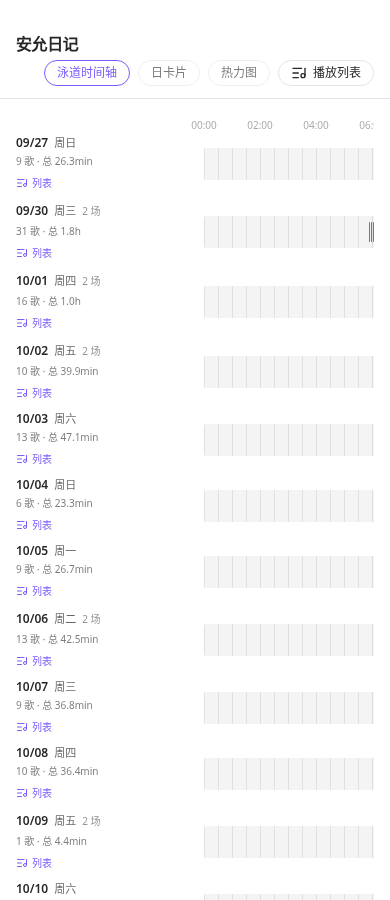
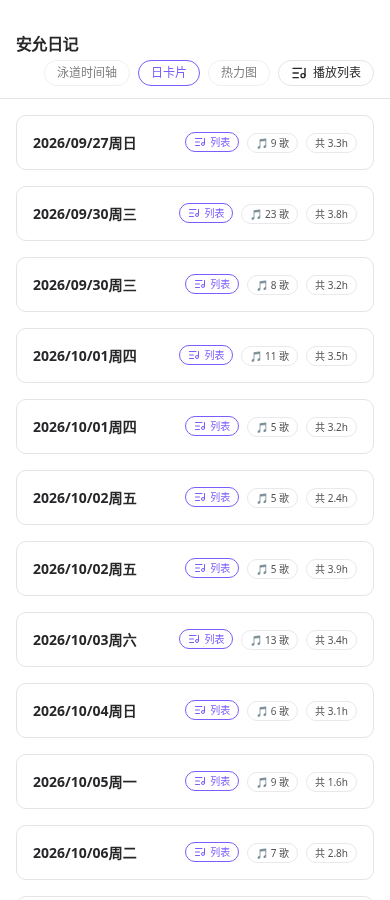
P3b: Chip component, heatmap/daystrip restyled on tokens; shot script tablist selector fix + retaken view1/2 baselines

diff --git a/src/lib/Heatmap.svelte b/src/lib/Heatmap.svelte
@@ -1,7 +1,7 @@
 <script lang="ts">
   import type { Recording } from './types';
   import { shDayStart } from './playlist-core';
-  import { fmtDur } from './types';
+  import { fmtDur, dateCard } from './types';
   import { adopt, buildRecTracks } from './player.svelte';
 
   let { recordings }: { recordings: Recording[] } = $props();
@@ -77,54 +77,71 @@
 </script>
 
 <div class="overflow-x-auto">
-  <div class="min-w-[860px]">
-    <div class="flex">
-      <!-- 纵轴：0-23 时 -->
-      <div class="w-10 shrink-0 pt-6">
-        {#each Array(24) as _, h}
-          {#if h % 3 === 0}
-            <div class="text-right text-[9px] leading-[14px] opacity-40">{String(h).padStart(2, '0')}</div>
-          {:else}
-            <div class="leading-[14px]"></div>
-          {/if}
-        {/each}
+  {#if days.length === 0}
+    <div class="py-6 text-center text-sm opacity-55">无数据</div>
+  {:else}
+    <div class="min-w-[640px]">
+      <!-- 列头：MM/DD + 周几 -->
+      <div class="flex">
+        <div class="w-10 shrink-0"></div>
+        <div class="flex flex-1 gap-1">
+          {#each days as day (day)}
+            {@const dc = dateCard(day)}
+            <div class="flex min-w-0 flex-1 flex-col items-center">
+              <span class="text-2xs font-semibold tabular-nums">{dc.md}</span>
+              <span class="text-2xs opacity-55">{dc.wd}</span>
+            </div>
+          {/each}
+        </div>
       </div>
 
-      <!-- 主体：每天一列 -->
-      <div class="flex flex-1 gap-[3px]">
-        {#each days as day (day)}
-          <div class="flex flex-1 flex-col gap-[2px]">
-            {#each Array(24) as _, h}
-              {@const c = cellAt(day, h)}
-              <div
-                class="h-[12px] rounded-[3px] transition-transform hover:scale-110"
-                style:background={bg(c)}
-                role={c ? 'button' : undefined}
-                tabindex={c ? 0 : undefined}
-                onclick={c ? () => playDay(c) : undefined}
-                onkeydown={(e) => { if (c && (e.key === 'Enter' || e.key === ' ')) { e.preventDefault(); playDay(c); } }}
-                onmousemove={(e) => c && show(e, c)}
-                onmouseleave={() => (tip = null)}
-              ></div>
-            {/each}
-            <div class="mt-1 text-center text-[9px] tabular-nums opacity-50">{md(day).slice(3)}</div>
-          </div>
-        {/each}
+      <!-- 主体：每列一天，每行一小时 -->
+      <div class="mt-1 flex">
+        <div class="flex w-10 shrink-0 flex-col gap-1">
+          {#each Array(24) as _, h}
+            <div class="flex h-3.5 items-center justify-end pr-1 text-2xs tabular-nums opacity-55">
+              {String(h).padStart(2, '0')}
+            </div>
+          {/each}
+        </div>
+
+        <div class="flex flex-1 gap-1">
+          {#each days as day (day)}
+            <div class="flex flex-1 flex-col gap-1">
+              {#each Array(24) as _, h}
+                {@const c = cellAt(day, h)}
+                <div
+                  class="h-3.5 w-full rounded-sm transition hover:ring-1 ring-accent"
+                  style:background={bg(c)}
+                  role={c ? 'button' : undefined}
+                  tabindex={c ? 0 : undefined}
+                  onclick={c ? () => playDay(c) : undefined}
+                  onkeydown={(e) => { if (c && (e.key === 'Enter' || e.key === ' ')) { e.preventDefault(); playDay(c); } }}
+                  onmousemove={(e) => c && show(e, c)}
+                  onmouseleave={() => (tip = null)}
+                ></div>
+              {/each}
+            </div>
+          {/each}
+        </div>
+      </div>
+
+      <!-- 图例 -->
+      <div class="mt-4 flex items-center gap-2 pl-10">
+        <span class="text-2xs opacity-55">少</span>
+        <div
+          class="h-2 w-24 rounded-full"
+          style:background="linear-gradient(90deg, hsl(258 80% 60% / 0.15), hsl(258 80% 60% / 0.95))"
+        ></div>
+        <span class="text-2xs opacity-55">多</span>
+        <span class="ml-2 text-2xs opacity-55">点击格子装载当天播放列表</span>
       </div>
     </div>
-
-    <div class="mt-4 flex items-center gap-2 pl-10 text-xs">
-      <span class="opacity-60">少</span>
-      {#each [0.12, 0.3, 0.5, 0.7, 0.95] as o}
-        <span class="h-3 w-3 rounded-[3px]" style:background={`hsl(258 80% 60% / ${o})`}></span>
-      {/each}
-      <span class="opacity-60">多（颜色 = 该小时唱歌时长；点击格子装载当天播放列表）</span>
-    </div>
-  </div>
+  {/if}
 </div>
 
 {#if tip}
-  <div class="pointer-events-none fixed z-50 max-w-xs rounded-lg border bg-base-100 p-2 text-xs shadow-lg"
+  <div class="pointer-events-none fixed z-50 max-w-xs rounded-lg border border-base-300 bg-base-100 p-2 text-xs shadow-lg"
     style:left={tip.x + 12 + 'px'} style:top={tip.y + 12 + 'px'}>
     {@html tip.html}
   </div>

diff --git a/src/lib/DayStrip.svelte b/src/lib/DayStrip.svelte
@@ -3,6 +3,7 @@
   import { fmtDay, fmtDur, fmtOffset, hueOf } from './types';
   import { player, playClip, adopt, buildRecTracks } from './player.svelte';
   import { ListMusic } from 'lucide-svelte';
+  import Chip from './components/Chip.svelte';
 
   let { recordings }: { recordings: Recording[] } = $props();
 
@@ -24,48 +25,45 @@
     {@const dur = recDur(rec)}
     {@const songs = rec.clips ?? []}
     <button
-      class="card rounded-xl border bg-base-100 p-4 text-left transition hover:border-accent"
+      class="block w-full rounded-lg border border-base-300 bg-base-100 p-4 text-left transition hover:border-accent"
       class:border-accent={open === rec.file}
       onclick={() => (open = open === rec.file ? null : rec.file)}
     >
-      <div class="flex items-baseline justify-between">
-        <div class="font-semibold">{fmtDay(rec.start)}</div>
-        <div class="flex items-center gap-2">
+      <div class="flex items-baseline justify-between gap-2">
+        <div class="text-base font-bold">{fmtDay(rec.start)}</div>
+        <div class="flex flex-wrap items-center justify-end gap-2">
           <span
-            class="flex items-center gap-1 rounded-full bg-accent/10 px-2 py-0.5 text-accent transition hover:bg-accent/20"
-            title="把这天的歌加入播放列表" onclick={(e) => { e.stopPropagation(); adopt(buildRecTracks(rec), 0); }}
+            title="把这天的歌加入播放列表"
+            onclick={(e) => { e.stopPropagation(); adopt(buildRecTracks(rec), 0); }}
           >
-            <ListMusic class="h-3 w-3" /> 列表 </span
-          >
-          <div class="text-[10px] opacity-60">{dur ? fmtDur(dur) : '无数据'}{rec.duration ? '' : '（估算）'}</div>
+            <Chip variant="accent"><ListMusic class="h-3 w-3" /> 列表</Chip>
+          </span>
+          <Chip>🎵 {songs.length} 歌</Chip>
+          <Chip>共 {dur ? fmtDur(dur) : '无数据'}{rec.duration ? '' : '（估算）'}</Chip>
         </div>
-      </div>
-      <div class="mt-2 flex flex-wrap gap-2 text-[11px]">
-        <span class="rounded-full bg-accent/15 px-2 py-0.5">🎵 {songs.length} 歌</span>
-        <span class="rounded-full bg-base-300/50 px-2 py-0.5">共 {dur ? fmtDur(dur) : '无数据'}{rec.duration ? '' : '（估算）'}</span>
       </div>
 
       {#if open === rec.file}
-        <ol class="mt-3 space-y-1.5 border-t pt-3">
+        <ol class="mt-3 space-y-1 border-t border-base-300 pt-3">
           {#each songs as c, i (c.file)}
             {@const hue = hueOf(c.title)}
             {@const active = player.track?.clip.file === c.file}
             <li>
               <button
-                class="flex w-full items-center gap-2 rounded px-1 py-0.5 text-left text-xs transition hover:bg-base-200"
+                class="flex h-9 w-full items-center gap-2 rounded-md px-2 text-left transition hover:bg-base-200"
                 class:bg-accent={active}
                 class:text-accent-content={active}
                 onclick={() => playClip(rec, i)}
               >
                 <span class="h-2.5 w-2.5 shrink-0 rounded-full" style="background:hsl({hue} 70% 60%)"></span>
-                <span class="w-12 shrink-0 text-[10px] opacity-60">{fmtOffset(c.offsetStart)}</span>
-                <span class="font-medium">{i + 1}. {c.title || '（未识别）'}</span>
-                <span class="text-[10px] opacity-50">{fmtDur(c.offsetEnd - c.offsetStart)}</span>
+                <span class="w-10 shrink-0 text-2xs tabular-nums opacity-50">{fmtOffset(c.offsetStart)}</span>
+                <span class="min-w-0 flex-1 truncate text-sm font-medium">{i + 1}. {c.title || '（未识别）'}</span>
+                <span class="shrink-0 text-xs tabular-nums opacity-60">{fmtDur(c.offsetEnd - c.offsetStart)}</span>
               </button>
             </li>
           {/each}
           {#if songs.length === 0}
-            <li class="text-xs opacity-50">这一天没有已识别的歌</li>
+            <li class="text-xs opacity-55">这一天没有已识别的歌</li>
           {/if}
         </ol>
       {/if}

diff --git a/src/lib/components/Chip.svelte b/src/lib/components/Chip.svelte
@@ -1,0 +1,27 @@
+<script lang="ts">
+  import type { Snippet } from 'svelte';
+
+  let {
+    variant = 'neutral',
+    size = 'xs',
+    children,
+  }: {
+    variant?: 'accent' | 'neutral' | 'warning';
+    size?: 'sm' | 'xs';
+    children?: Snippet;
+  } = $props();
+
+  const styles = $derived(
+    [
+      'inline-flex items-center gap-1 rounded-full border',
+      size === 'sm' ? 'px-2.5 py-1 text-xs' : 'px-2 py-0.5 text-2xs',
+      variant === 'accent'
+        ? 'border-accent text-accent'
+        : variant === 'warning'
+          ? 'border-warning text-warning'
+          : 'border-base-300 opacity-80',
+    ].join(' ')
+  );
+</script>
+
+<span class={styles}>{@render children?.()}</span>

diff --git a/scripts/cdp-shot2.py b/scripts/cdp-shot2.py
@@ -46,7 +46,7 @@ try:
     call(2, 'Emulation.setDeviceMetricsOverride',
          {'width': width, 'height': height, 'deviceScaleFactor': 1, 'mobile': width < 700, 'screenWidth': width, 'screenHeight': height})
     if view is not None:
-        call(3, 'Runtime.evaluate', {'expression': f"document.querySelectorAll('nav button')[{view}].click()", 'returnByValue': True})
+        call(3, 'Runtime.evaluate', {'expression': f"document.querySelectorAll('[role=tablist] button')[{view}].click()", 'returnByValue': True})
         time.sleep(0.8)
     res = call(4, 'Page.captureScreenshot', {'format': 'png', 'captureBeyondViewport': fullpage})
     open(outfile, 'wb').write(base64.b64decode(res['data']))
